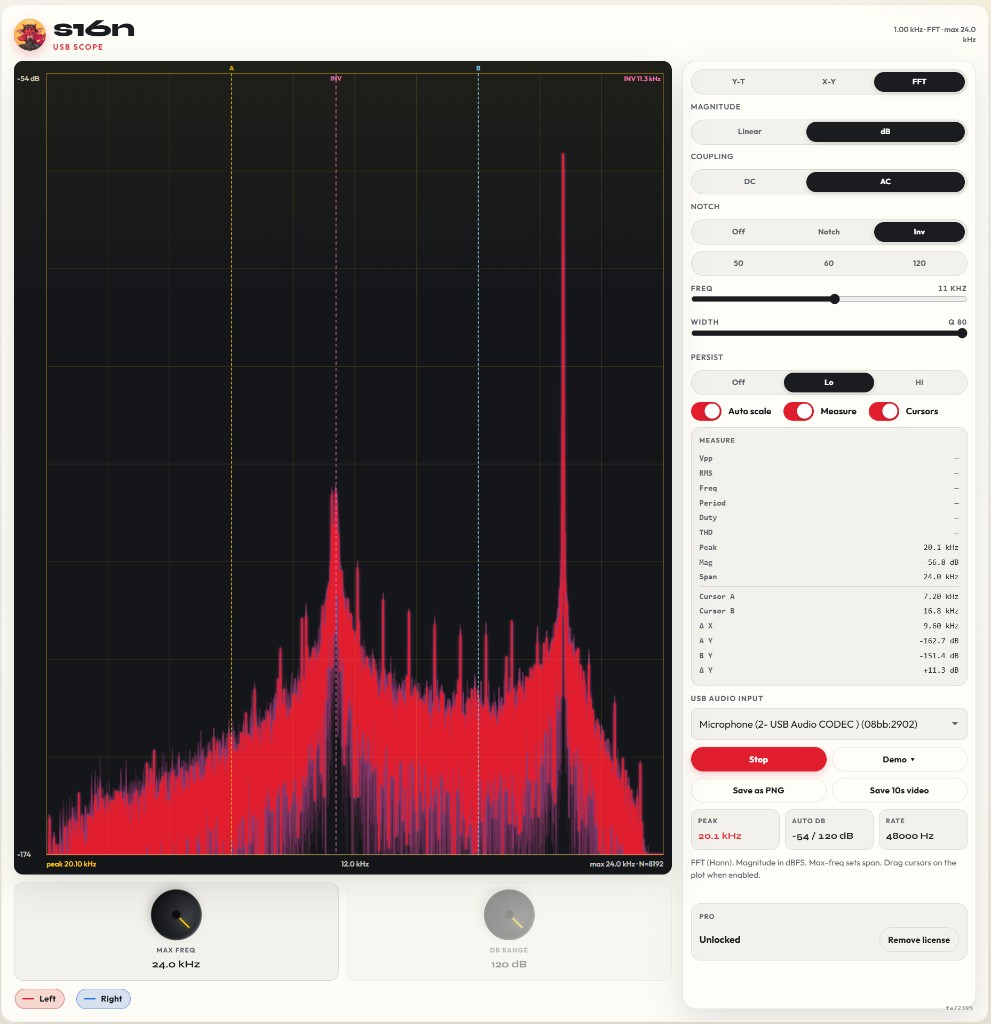
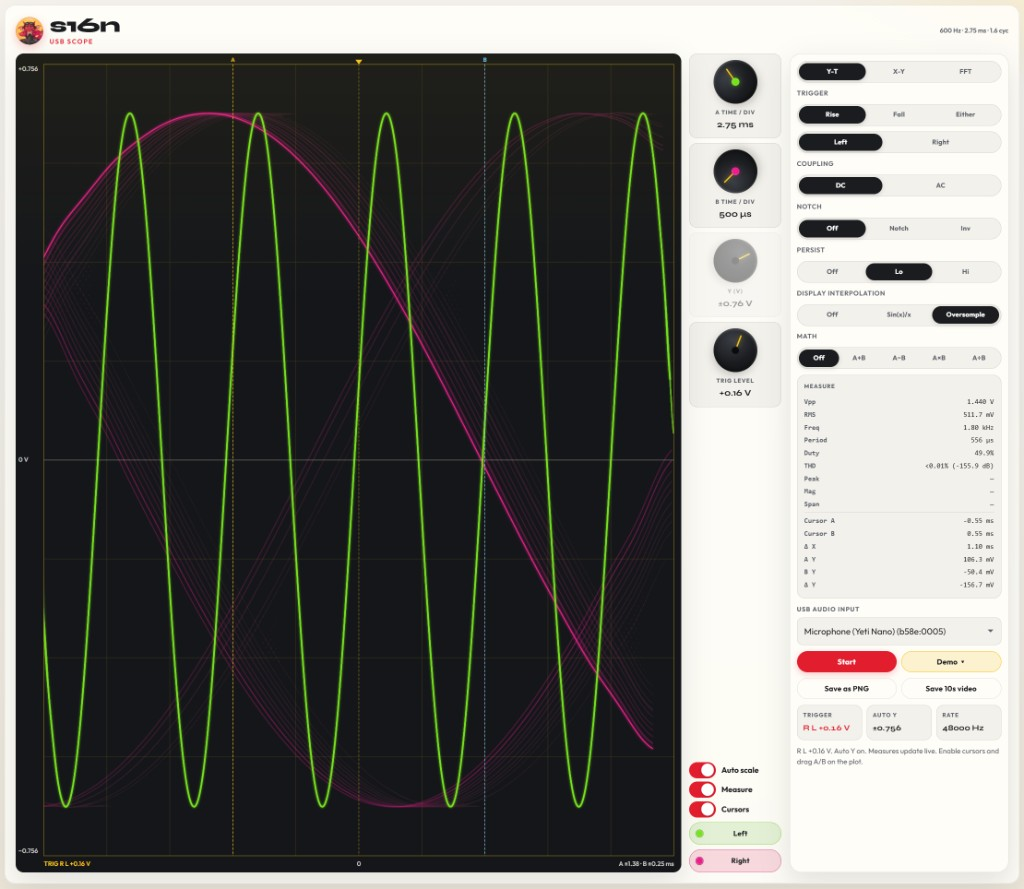
docs: update USB Scope hero and Lissajous example label
Refresh the top/card screenshot and rename the azimuth demo to Example Lissajous.

diff --git a/projects/usb-scope.md b/projects/usb-scope.md
@@ -14,7 +14,7 @@ tags:
 card_desc: "Browser oscilloscope for USB audio inputs."
 ---
 
-![s16n USB Scope FFT view with notch filter](/assets/images/turntable-audio/scope-hero.png){: .center-image }
+![s16n USB Scope Y-T view with dual timebase and measures](/assets/images/turntable-audio/scope-hero.png){: .center-image }
 
 A browser oscilloscope and spectrum analyzer for USB audio inputs — audio frequency only (not RF or lab-bandwidth scopes). Plug in a USB ADC, pick the device, and Start — or use built-in demos. Useful for checking line-level signals from turntables and tape decks for setting head azimuth, anti-skating, testing other audio equipment, codecs, and test gear.
 
@@ -39,9 +39,9 @@ Core scope features are free. **Pro** ($9.99 / year) unlocks FFT above 10 kHz, t
 - Demos: 1 kHz sine, harmonics, calibrated 3 kHz · 4% THD, CD RF eye, and an X-Y “s16n” vector
 - Save as PNG; Save 10s video — Pro
 
-### Example: tape head azimuth
+### Example: Lissajous
 
-X-Y (Lissajous) view while adjusting azimuth on a tape deck — aim for a tight, stable ellipse/line on a high-frequency test tone.
+X-Y (Lissajous) view for tape head azimuth — aim for a tight, stable ellipse/line on a high-frequency test tone.
 
 <video class="center-image" controls playsinline preload="metadata" src="{{ '/assets/images/turntable-audio/scope-azimuth.webm' | relative_url }}">
   Your browser does not support the video tag.
